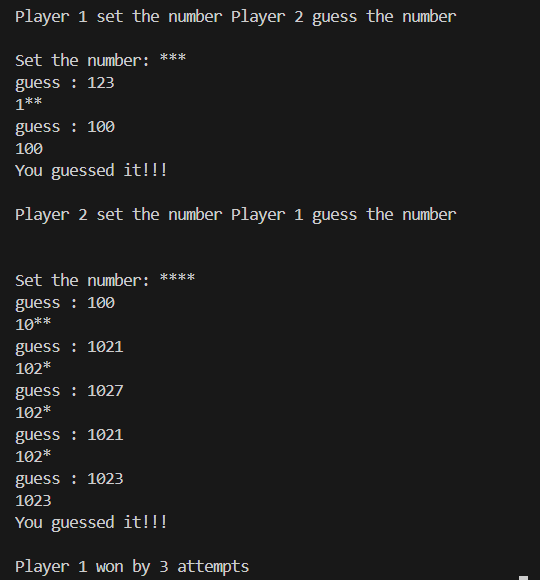
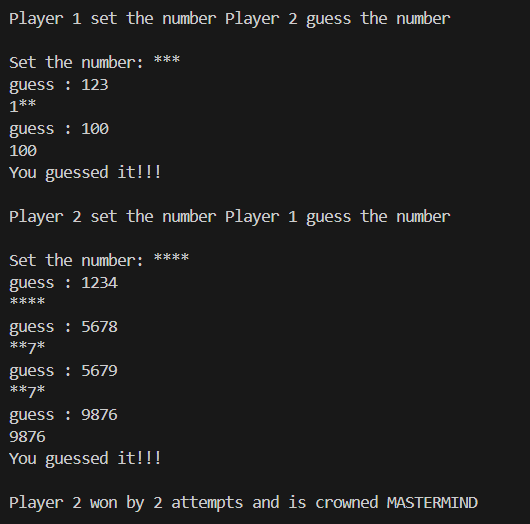
Ready

diff --git a/Matermind Game/game.py b/Matermind Game/game.py
@@ -32,13 +32,16 @@ def play():
             break
 
 print("\nPlayer 1 set the number Player 2 guess the number\n")
-p1 = play()
-print("\nPlayer 2 set the number Player 1 guess the number\n\n")
 p2 = play()
+if p2 == 1:
+    print("/nPlayer 2 won and is crowned MASTERMIND\n")
+    quit()
+print("\nPlayer 2 set the number Player 1 guess the number\n")
+p1 = play()
 
 if p1==p2:
     print("\nIt's a tie")
 elif p1>p2:
-    print(f"\nPlayer 2 won by {p1-p2} attempts")
+    print(f"\nPlayer 2 won by {p1-p2} attempts and is crowned MASTERMIND\n")
 elif p2>p1:
-    print(f"\nPlayer 1 won by {p2-p1} attempts")
+    print(f"\nPlayer 1 won by {p2-p1} attempts and is crowned MASTERMIND\n")
